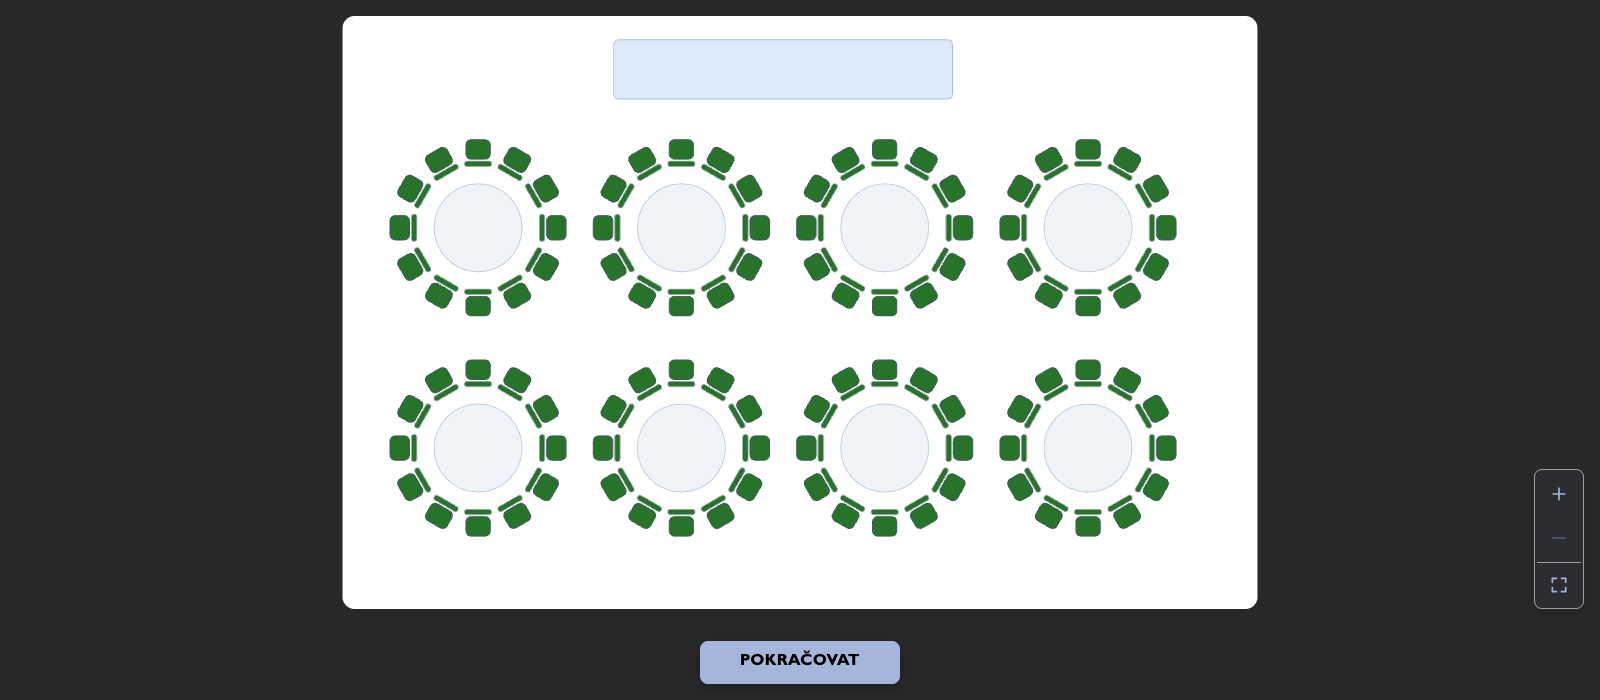
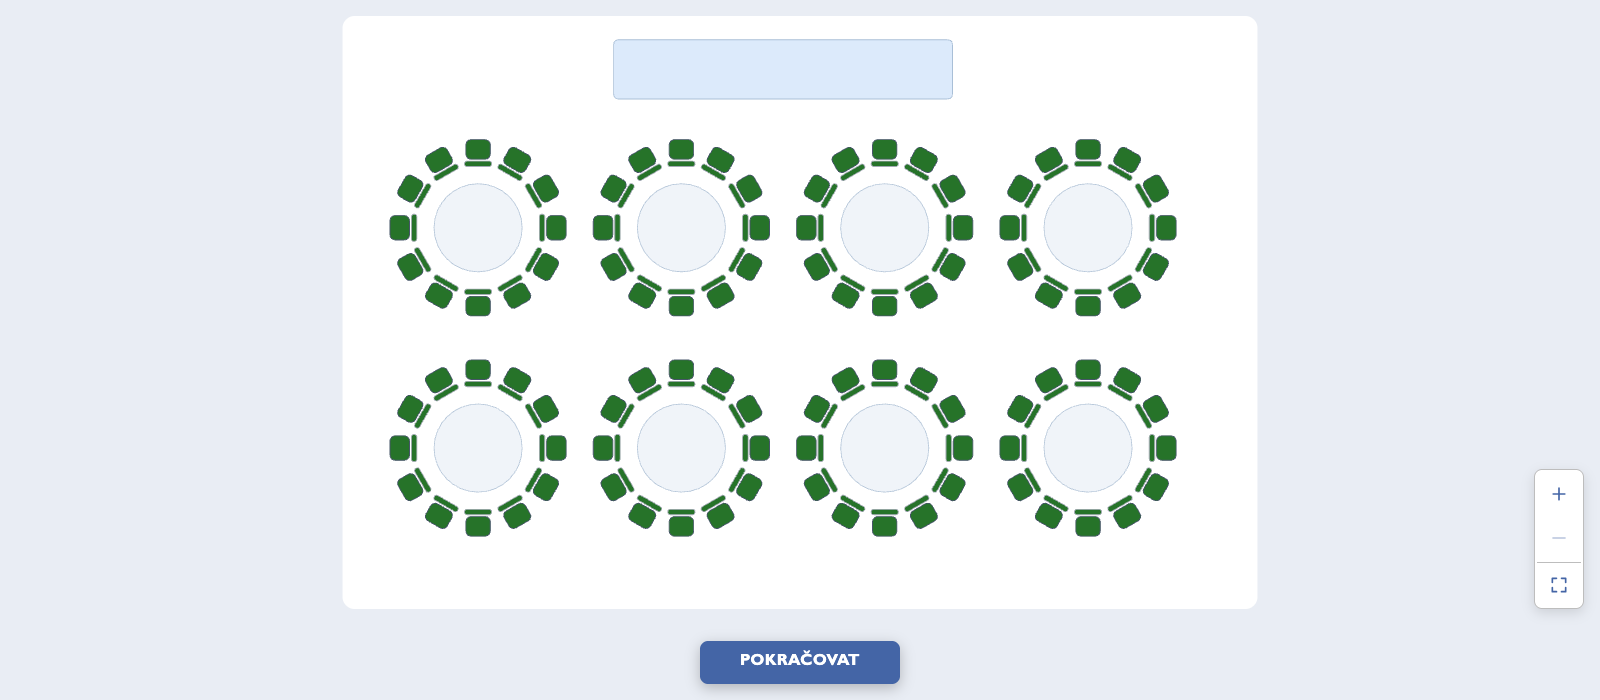
docs(catalog): replace screenshots with fresh light mode captures

diff --git a/integrations/wix/media/README.md b/integrations/wix/media/README.md
@@ -27,7 +27,7 @@ separately from local generation. Do not change a shared developer-company logo
 or another app's identity as part of this app-specific update.
 
 The current gallery source assets are `gallery-form-20261106.png` and
-`gallery-seats-20261106.png`, both 1200x900. They show the actual current
+`gallery-seats-20261106.png`, both 1200x900, captured in light mode. They show the actual current
 standalone web client with a disposable, Czech Ples U Lípy example. They do
 not show a Wix editor or an embedded host, and no order was submitted. Capture
 provenance and hashes are in [the current evidence](../evidence/catalog-screenshots-20261106.json).
